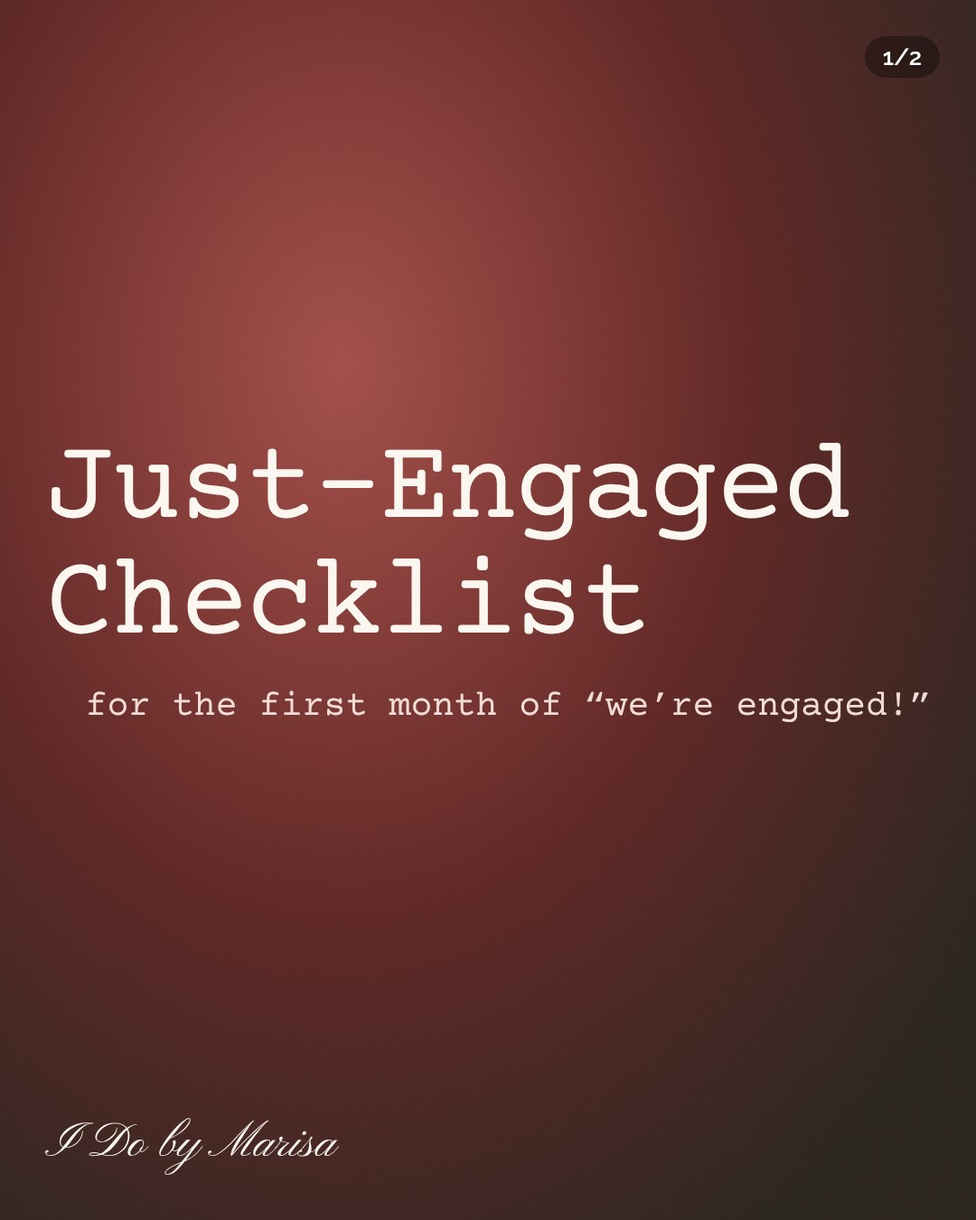
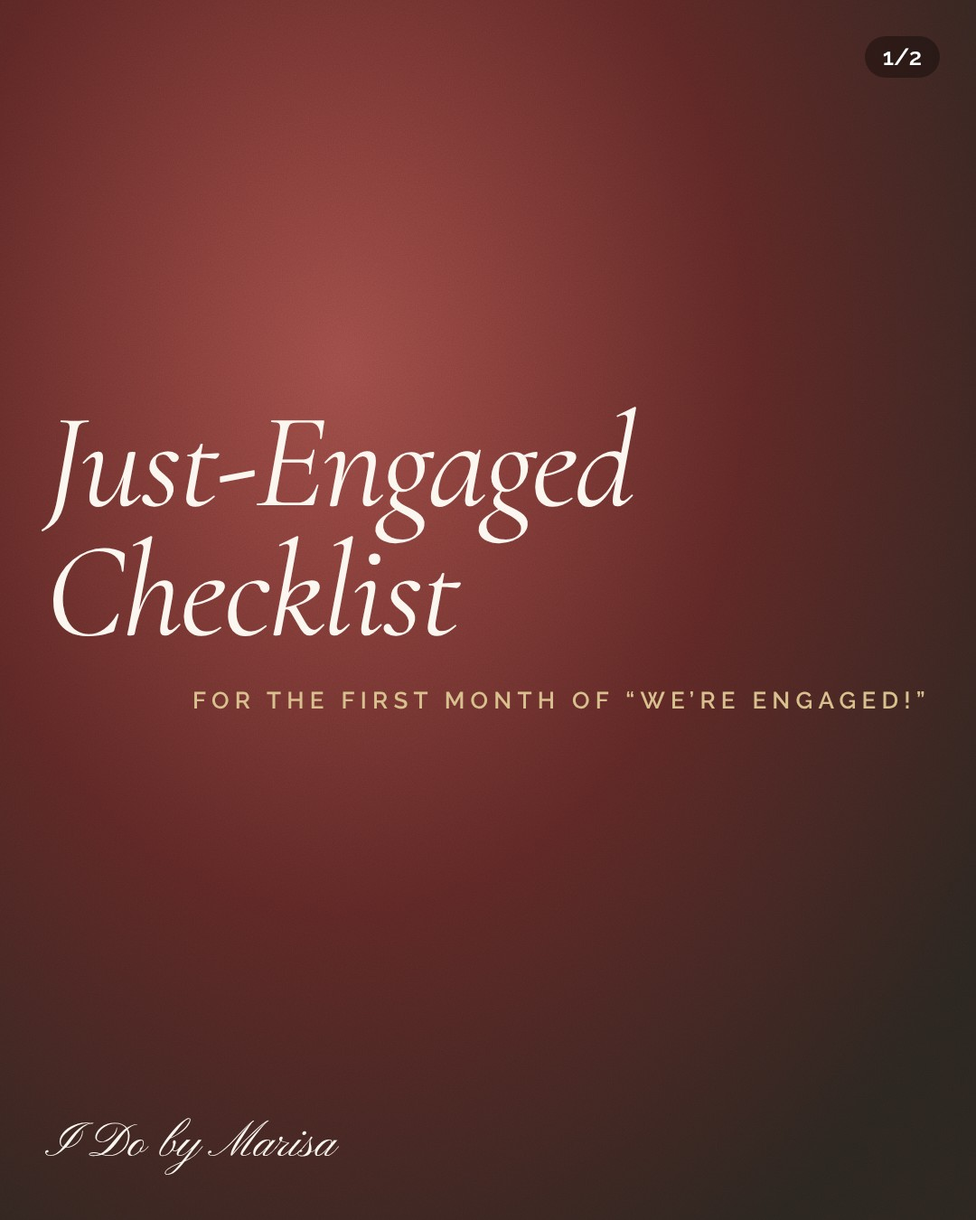
I Do: pull mantras, 3-things, Weddingland and checklists back to brand fonts/colors
Claude-Session: https://claude.ai/code/session_01CeoovJ21APbX2P2SCMoWFW

Changed region(s): [[0.0306, 0.3422, 0.8861, 0.5289], [0.1833, 0.56, 0.9472, 0.5911], [0.0917, 0.56, 0.1528, 0.5911]]

diff --git a/ido_cool/mp2/mp2.html b/ido_cool/mp2/mp2.html
@@ -1,25 +1,25 @@
-<!doctype html><html><head><meta charset="utf-8"><link href="https://fonts.googleapis.com/css2?family=Patrick+Hand+SC&family=Montserrat:ital,wght@0,400;0,500;0,600;0,700;1,300&family=Cormorant+Garamond:wght@400;500;600&family=Pinyon+Script&family=Raleway:wght@600&display=swap" rel="stylesheet"><style>*{box-sizing:border-box}body{margin:0;background:#777}p{margin:0}
+<!doctype html><html><head><meta charset="utf-8"><link href="https://fonts.googleapis.com/css2?family=Patrick+Hand+SC&family=Cormorant+Garamond:ital,wght@0,400;0,500;0,600;1,400&family=Pinyon+Script&family=Raleway:wght@400;500;600;700&display=swap" rel="stylesheet"><style>*{box-sizing:border-box}body{margin:0;background:#777}p{margin:0}
 .s{width:1080px;height:1350px;position:relative;overflow:hidden;margin-bottom:10px}
 .grain{position:absolute;inset:0;mix-blend-mode:overlay;opacity:.5;pointer-events:none}
 .mark{position:absolute;right:50px;bottom:44px;font:400 50px 'Pinyon Script';color:#FBF7F0;opacity:.9}
 .n{position:absolute;right:40px;top:40px;background:rgba(0,0,0,.3);color:#fff;font:600 24px 'Raleway';padding:8px 18px;border-radius:999px}
-.mantra{position:absolute;left:70px;right:70px;top:0;bottom:0;display:flex;align-items:center;justify-content:center;text-align:center;font:400 108px/1.22 'Patrick Hand SC';color:#FBF7F0;letter-spacing:.03em;text-shadow:0 2px 14px rgba(0,0,0,.2)}
+.mantra{position:absolute;left:70px;right:70px;top:0;bottom:0;display:flex;align-items:center;justify-content:center;text-align:center;font:italic 400 118px/1.08 'Cormorant Garamond';color:#FBF7F0;letter-spacing:-.01em;text-shadow:0 2px 14px rgba(0,0,0,.2)}
 .mantra.dk{color:#2A241F;text-shadow:none}
-.ret{background:radial-gradient(ellipse at 50% 35%,#c99a78,#7a4a36 55%,#2c1d16 95%);color:#FBF7F0}
-.ret .h{position:absolute;left:60px;right:60px;top:540px;text-align:center;font:600 86px/1.05 'Montserrat';letter-spacing:-.03em;color:#FBF7F0;text-shadow:0 3px 20px rgba(0,0,0,.35)}
-.ret .p{position:absolute;left:110px;right:110px;top:760px;text-align:center;font:400 40px/1.35 'Montserrat';color:#F1DCD6}
-.wl{background:#3a2522;color:#FBF7F0}
+.ret{background:radial-gradient(ellipse at 50% 35%,#B08D57,#5a4a3e 55%,#2A241F 95%);color:#FBF7F0}
+.ret .h{position:absolute;left:60px;right:60px;top:520px;text-align:center;font:italic 400 108px/1 'Cormorant Garamond';letter-spacing:-.02em;color:#FBF7F0;text-shadow:0 3px 20px rgba(0,0,0,.35)}
+.ret .p{position:absolute;left:110px;right:110px;top:760px;text-align:center;font:400 40px/1.35 'Raleway';color:#F1DCD6}
+.wl{background:#2A241F;color:#FBF7F0}
 .wl .pill{position:absolute;left:50%;top:60px;transform:translateX(-50%);border:2px solid #FBF7F0;border-radius:50%;padding:16px 70px;font:600 26px 'Cormorant Garamond';letter-spacing:.12em}
 .wl .a{position:absolute;left:60px;top:200px;font:500 112px/1 'Cormorant Garamond';letter-spacing:-.03em}
 .wl .b{position:absolute;left:40px;top:330px;font:400 190px/1 'Pinyon Script';color:#D9C08F}
 .wl .box{position:absolute;left:70px;right:60px;top:640px;bottom:140px;border-left:2px solid #FBF7F0;border-top:2px solid #FBF7F0;padding:40px 40px}
 .wl .box p{margin:0;font:400 68px/1.02 'Cormorant Garamond';width:560px}
-.wl .ph{position:absolute;right:30px;bottom:30px;width:420px;height:420px;border-radius:50%;background:repeating-linear-gradient(120deg,#5a3c37 0 24px,#4a302c 24px 48px);display:flex;align-items:center;justify-content:center;font:600 20px 'Raleway';letter-spacing:.2em;color:#c9a7a0;text-align:center}
-.it{background:#3a2522;color:#FBF7F0}
+.wl .ph{position:absolute;right:30px;bottom:30px;width:420px;height:420px;border-radius:50%;background:repeating-linear-gradient(120deg,#4a3f36 0 24px,#3a322b 24px 48px);display:flex;align-items:center;justify-content:center;font:600 20px 'Raleway';letter-spacing:.2em;color:#c9a7a0;text-align:center}
+.it{background:#2A241F;color:#FBF7F0}
 .it .img{position:absolute;left:0;top:0;width:500px;height:760px;border-radius:0 0 30px 0;background:repeating-linear-gradient(120deg,#e9dfd2 0 30px,#e2d6c7 30px 60px);display:flex;align-items:center;justify-content:center;font:600 22px 'Raleway';letter-spacing:.2em;color:#9a8a7a;text-align:center}
-.it .tag{position:absolute;left:20px;top:40px;writing-mode:vertical-rl;transform:rotate(180deg);font:700 44px 'Montserrat';color:#fff;letter-spacing:.06em}
-.it .num{position:absolute;left:540px;top:40px;font:italic 300 100px 'Montserrat'}
-.it .hl{position:absolute;left:540px;right:40px;top:190px;font:500 64px/1.12 'Montserrat';text-transform:uppercase}
-.it .card{position:absolute;left:540px;right:30px;top:470px;height:290px;background:#efe6d6;color:#2A241F;border-radius:30px;padding:28px;font:400 30px/1.35 'Montserrat'}
-.it .lesson{position:absolute;left:50px;right:50px;top:820px;font:400 38px/1.42 'Montserrat'}
-.it .src{position:absolute;left:50px;bottom:50px;font:400 24px 'Montserrat';opacity:.75}</style></head><body><section class="s" id="mantra1" style="background:radial-gradient(ellipse at 50% 70%,#9fb4c8,#3f5d7a 55%,#1f2f42)"><div class="n">1/6</div><svg class="grain" width="1080" height="1350"><filter id="n"><feTurbulence type="fractalNoise" baseFrequency=".8" numOctaves="2" stitchTiles="stitch"/><feColorMatrix values="0 0 0 0 .5 0 0 0 0 .5 0 0 0 0 .5 0 0 0 .55 0"/></filter><rect width="100%" height="100%" filter="url(#n)"/></svg><p class="mantra">MORE MEANING IT.<br>LESS PERFORMING.</p><div class="mark">I Do by Marisa</div></section><section class="s" id="mantra2" style="background:radial-gradient(ellipse at 40% 30%,#F1DCD6,#c98f86 60%,#7E2E2C)"><div class="n">2/6</div><svg class="grain" width="1080" height="1350"><filter id="n"><feTurbulence type="fractalNoise" baseFrequency=".8" numOctaves="2" stitchTiles="stitch"/><feColorMatrix values="0 0 0 0 .5 0 0 0 0 .5 0 0 0 0 .5 0 0 0 .55 0"/></filter><rect width="100%" height="100%" filter="url(#n)"/></svg><p class="mantra">SAY IT LIKE<br>YOU’D TEXT IT.</p><div class="mark">I Do by Marisa</div></section><section class="s" id="mantra3" style="background:radial-gradient(ellipse at 60% 40%,#e8d8b8,#B08D57 60%,#5a4428)"><div class="n">3/6</div><svg class="grain" width="1080" height="1350"><filter id="n"><feTurbulence type="fractalNoise" baseFrequency=".8" numOctaves="2" stitchTiles="stitch"/><feColorMatrix values="0 0 0 0 .5 0 0 0 0 .5 0 0 0 0 .5 0 0 0 .55 0"/></filter><rect width="100%" height="100%" filter="url(#n)"/></svg><p class="mantra">SHORT IS<br>NOT SMALL.</p><div class="mark">I Do by Marisa</div></section><section class="s" id="mantra4" style="background:radial-gradient(ellipse at 50% 50%,#c4cdb0,#6f7d58 60%,#2f3826)"><div class="n">4/6</div><svg class="grain" width="1080" height="1350"><filter id="n"><feTurbulence type="fractalNoise" baseFrequency=".8" numOctaves="2" stitchTiles="stitch"/><feColorMatrix values="0 0 0 0 .5 0 0 0 0 .5 0 0 0 0 .5 0 0 0 .55 0"/></filter><rect width="100%" height="100%" filter="url(#n)"/></svg><p class="mantra">YOUR STORY<br>OVER A TEMPLATE.</p><div class="mark">I Do by Marisa</div></section><section class="s" id="mantra5" style="background:radial-gradient(ellipse at 30% 40%,#d9b8c8,#8a5a72 60%,#3a2230)"><div class="n">5/6</div><svg class="grain" width="1080" height="1350"><filter id="n"><feTurbulence type="fractalNoise" baseFrequency=".8" numOctaves="2" stitchTiles="stitch"/><feColorMatrix values="0 0 0 0 .5 0 0 0 0 .5 0 0 0 0 .5 0 0 0 .55 0"/></filter><rect width="100%" height="100%" filter="url(#n)"/></svg><p class="mantra">BREATHE.<br>THEN SAY I DO.</p><div class="mark">I Do by Marisa</div></section><section class="s" id="mantra6" style="background:radial-gradient(ellipse at 50% 40%,#FBF7F0,#e7d6c4 70%,#cdb49a)"><div class="n">6/6</div><svg class="grain" width="1080" height="1350"><filter id="n"><feTurbulence type="fractalNoise" baseFrequency=".8" numOctaves="2" stitchTiles="stitch"/><feColorMatrix values="0 0 0 0 .5 0 0 0 0 .5 0 0 0 0 .5 0 0 0 .55 0"/></filter><rect width="100%" height="100%" filter="url(#n)"/></svg><p class="mantra dk">IT DOESN’T HAVE<br>TO BE PERFECT.<br>IT HAS TO BE TRUE.</p><div class="mark" style=color:#2A241F>I Do by Marisa</div></section><section class="s ret" id="three1"><div class="n">1/4</div><svg class="grain" width="1080" height="1350"><filter id="n"><feTurbulence type="fractalNoise" baseFrequency=".8" numOctaves="2" stitchTiles="stitch"/><feColorMatrix values="0 0 0 0 .5 0 0 0 0 .5 0 0 0 0 .5 0 0 0 .55 0"/></filter><rect width="100%" height="100%" filter="url(#n)"/></svg><p class="h">the 3 things<br>every ceremony needs</p><p class="p">swipe →</p><div class="mark">I Do by Marisa</div></section><section class="s ret" id="three2"><div class="n">2/4</div><svg class="grain" width="1080" height="1350"><filter id="n"><feTurbulence type="fractalNoise" baseFrequency=".8" numOctaves="2" stitchTiles="stitch"/><feColorMatrix values="0 0 0 0 .5 0 0 0 0 .5 0 0 0 0 .5 0 0 0 .55 0"/></filter><rect width="100%" height="100%" filter="url(#n)"/></svg><p class="h">1. a real story</p><p class="p">how you met, the tuesday, the inside joke. not a template with your names swapped in.</p><div class="mark">I Do by Marisa</div></section><section class="s ret" id="three3"><div class="n">3/4</div><svg class="grain" width="1080" height="1350"><filter id="n"><feTurbulence type="fractalNoise" baseFrequency=".8" numOctaves="2" stitchTiles="stitch"/><feColorMatrix values="0 0 0 0 .5 0 0 0 0 .5 0 0 0 0 .5 0 0 0 .55 0"/></filter><rect width="100%" height="100%" filter="url(#n)"/></svg><p class="h">2. a moment<br>to breathe</p><p class="p">one pause before the vows. it feels long. it isn’t. everyone remembers it.</p><div class="mark">I Do by Marisa</div></section><section class="s ret" id="three4"><div class="n">4/4</div><svg class="grain" width="1080" height="1350"><filter id="n"><feTurbulence type="fractalNoise" baseFrequency=".8" numOctaves="2" stitchTiles="stitch"/><feColorMatrix values="0 0 0 0 .5 0 0 0 0 .5 0 0 0 0 .5 0 0 0 .55 0"/></filter><rect width="100%" height="100%" filter="url(#n)"/></svg><p class="h">3. someone who<br>knows you</p><p class="p">me, or your best friend with a script i wrote and the coaching to deliver it.</p><div class="mark">I Do by Marisa</div></section><section class="s wl" id="wl1"><svg class="grain" width="1080" height="1350"><filter id="n"><feTurbulence type="fractalNoise" baseFrequency=".8" numOctaves="2" stitchTiles="stitch"/><feColorMatrix values="0 0 0 0 .5 0 0 0 0 .5 0 0 0 0 .5 0 0 0 .55 0"/></filter><rect width="100%" height="100%" filter="url(#n)"/></svg><div class="pill">I DO BY MARISA</div><p class="a">What’s happening in</p><p class="b">Weddingland</p><div class="box"><p>what couples are talking about this week and why you should care</p></div><div class="ph">YOUR PHOTO<br>OR A COLLAGE<br>OF YOUR OWN SHOTS</div></section><section class="s it" id="wl2"><svg class="grain" width="1080" height="1350"><filter id="n"><feTurbulence type="fractalNoise" baseFrequency=".8" numOctaves="2" stitchTiles="stitch"/><feColorMatrix values="0 0 0 0 .5 0 0 0 0 .5 0 0 0 0 .5 0 0 0 .55 0"/></filter><rect width="100%" height="100%" filter="url(#n)"/></svg><div class="img">YOUR PHOTO</div><div class="tag">TRENDS</div><div class="num">01</div><div class="hl">[HEADLINE OF<br>THE WEEK]</div><div class="card">[2–3 sentences on what happened, with the real numbers from a real source.]</div><p class="lesson"><b>The lesson:</b> [what this means for your ceremony, in one or two plain sentences. This is where your officiant brain shines.]</p><p class="src">Source: [publication]</p><div class="mark" style="font-size:40px">I Do by Marisa</div></section></body></html>
+.it .tag{position:absolute;left:20px;top:40px;writing-mode:vertical-rl;transform:rotate(180deg);font:700 44px 'Raleway';color:#fff;letter-spacing:.06em}
+.it .num{position:absolute;left:540px;top:40px;font:italic 400 110px 'Cormorant Garamond'}
+.it .hl{position:absolute;left:540px;right:40px;top:190px;font:500 64px/1.12 'Raleway';text-transform:uppercase}
+.it .card{position:absolute;left:540px;right:30px;top:470px;height:290px;background:#FBF7F0;color:#2A241F;border-radius:30px;padding:28px;font:400 30px/1.35 'Raleway'}
+.it .lesson{position:absolute;left:50px;right:50px;top:820px;font:400 38px/1.42 'Raleway'}
+.it .src{position:absolute;left:50px;bottom:50px;font:400 24px 'Raleway';opacity:.75}</style></head><body><section class="s" id="mantra1" style="background:radial-gradient(ellipse at 50% 35%,#9a4a45,#7E2E2C 55%,#3a1716)"><div class="n">1/6</div><svg class="grain" width="1080" height="1350"><filter id="n"><feTurbulence type="fractalNoise" baseFrequency=".8" numOctaves="2" stitchTiles="stitch"/><feColorMatrix values="0 0 0 0 .5 0 0 0 0 .5 0 0 0 0 .5 0 0 0 .55 0"/></filter><rect width="100%" height="100%" filter="url(#n)"/></svg><p class="mantra">more meaning it.<br>less performing.</p><div class="mark">I Do by Marisa</div></section><section class="s" id="mantra2" style="background:radial-gradient(ellipse at 40% 30%,#FBF7F0,#F1DCD6 60%,#d9b3aa)"><div class="n">2/6</div><svg class="grain" width="1080" height="1350"><filter id="n"><feTurbulence type="fractalNoise" baseFrequency=".8" numOctaves="2" stitchTiles="stitch"/><feColorMatrix values="0 0 0 0 .5 0 0 0 0 .5 0 0 0 0 .5 0 0 0 .55 0"/></filter><rect width="100%" height="100%" filter="url(#n)"/></svg><p class="mantra dk">say it like<br>you’d text it.</p><div class="mark" style=color:#2A241F>I Do by Marisa</div></section><section class="s" id="mantra3" style="background:radial-gradient(ellipse at 60% 40%,#5a4a3e,#2A241F 70%)"><div class="n">3/6</div><svg class="grain" width="1080" height="1350"><filter id="n"><feTurbulence type="fractalNoise" baseFrequency=".8" numOctaves="2" stitchTiles="stitch"/><feColorMatrix values="0 0 0 0 .5 0 0 0 0 .5 0 0 0 0 .5 0 0 0 .55 0"/></filter><rect width="100%" height="100%" filter="url(#n)"/></svg><p class="mantra">short is<br>not small.</p><div class="mark">I Do by Marisa</div></section><section class="s" id="mantra4" style="background:radial-gradient(ellipse at 50% 40%,#e8d8b8,#D9C08F 55%,#B08D57)"><div class="n">4/6</div><svg class="grain" width="1080" height="1350"><filter id="n"><feTurbulence type="fractalNoise" baseFrequency=".8" numOctaves="2" stitchTiles="stitch"/><feColorMatrix values="0 0 0 0 .5 0 0 0 0 .5 0 0 0 0 .5 0 0 0 .55 0"/></filter><rect width="100%" height="100%" filter="url(#n)"/></svg><p class="mantra dk">your story<br>over a template.</p><div class="mark" style=color:#2A241F>I Do by Marisa</div></section><section class="s" id="mantra5" style="background:radial-gradient(ellipse at 30% 40%,#F1DCD6,#c98f86 60%,#7E2E2C)"><div class="n">5/6</div><svg class="grain" width="1080" height="1350"><filter id="n"><feTurbulence type="fractalNoise" baseFrequency=".8" numOctaves="2" stitchTiles="stitch"/><feColorMatrix values="0 0 0 0 .5 0 0 0 0 .5 0 0 0 0 .5 0 0 0 .55 0"/></filter><rect width="100%" height="100%" filter="url(#n)"/></svg><p class="mantra">breathe.<br>then say i do.</p><div class="mark">I Do by Marisa</div></section><section class="s" id="mantra6" style="background:radial-gradient(ellipse at 50% 40%,#FBF7F0,#efe4d4 75%,#e2d2bd)"><div class="n">6/6</div><svg class="grain" width="1080" height="1350"><filter id="n"><feTurbulence type="fractalNoise" baseFrequency=".8" numOctaves="2" stitchTiles="stitch"/><feColorMatrix values="0 0 0 0 .5 0 0 0 0 .5 0 0 0 0 .5 0 0 0 .55 0"/></filter><rect width="100%" height="100%" filter="url(#n)"/></svg><p class="mantra dk">it doesn’t have<br>to be perfect.<br>it has to be true.</p><div class="mark" style=color:#2A241F>I Do by Marisa</div></section><section class="s ret" id="three1"><div class="n">1/4</div><svg class="grain" width="1080" height="1350"><filter id="n"><feTurbulence type="fractalNoise" baseFrequency=".8" numOctaves="2" stitchTiles="stitch"/><feColorMatrix values="0 0 0 0 .5 0 0 0 0 .5 0 0 0 0 .5 0 0 0 .55 0"/></filter><rect width="100%" height="100%" filter="url(#n)"/></svg><p class="h">the 3 things<br>every ceremony needs</p><p class="p">swipe →</p><div class="mark">I Do by Marisa</div></section><section class="s ret" id="three2"><div class="n">2/4</div><svg class="grain" width="1080" height="1350"><filter id="n"><feTurbulence type="fractalNoise" baseFrequency=".8" numOctaves="2" stitchTiles="stitch"/><feColorMatrix values="0 0 0 0 .5 0 0 0 0 .5 0 0 0 0 .5 0 0 0 .55 0"/></filter><rect width="100%" height="100%" filter="url(#n)"/></svg><p class="h">1. a real story</p><p class="p">how you met, the tuesday, the inside joke. not a template with your names swapped in.</p><div class="mark">I Do by Marisa</div></section><section class="s ret" id="three3"><div class="n">3/4</div><svg class="grain" width="1080" height="1350"><filter id="n"><feTurbulence type="fractalNoise" baseFrequency=".8" numOctaves="2" stitchTiles="stitch"/><feColorMatrix values="0 0 0 0 .5 0 0 0 0 .5 0 0 0 0 .5 0 0 0 .55 0"/></filter><rect width="100%" height="100%" filter="url(#n)"/></svg><p class="h">2. a moment<br>to breathe</p><p class="p">one pause before the vows. it feels long. it isn’t. everyone remembers it.</p><div class="mark">I Do by Marisa</div></section><section class="s ret" id="three4"><div class="n">4/4</div><svg class="grain" width="1080" height="1350"><filter id="n"><feTurbulence type="fractalNoise" baseFrequency=".8" numOctaves="2" stitchTiles="stitch"/><feColorMatrix values="0 0 0 0 .5 0 0 0 0 .5 0 0 0 0 .5 0 0 0 .55 0"/></filter><rect width="100%" height="100%" filter="url(#n)"/></svg><p class="h">3. someone who<br>knows you</p><p class="p">me, or your best friend with a script i wrote and the coaching to deliver it.</p><div class="mark">I Do by Marisa</div></section><section class="s wl" id="wl1"><svg class="grain" width="1080" height="1350"><filter id="n"><feTurbulence type="fractalNoise" baseFrequency=".8" numOctaves="2" stitchTiles="stitch"/><feColorMatrix values="0 0 0 0 .5 0 0 0 0 .5 0 0 0 0 .5 0 0 0 .55 0"/></filter><rect width="100%" height="100%" filter="url(#n)"/></svg><div class="pill">I DO BY MARISA</div><p class="a">What’s happening in</p><p class="b">Weddingland</p><div class="box"><p>what couples are talking about this week and why you should care</p></div><div class="ph">YOUR PHOTO<br>OR A COLLAGE<br>OF YOUR OWN SHOTS</div></section><section class="s it" id="wl2"><svg class="grain" width="1080" height="1350"><filter id="n"><feTurbulence type="fractalNoise" baseFrequency=".8" numOctaves="2" stitchTiles="stitch"/><feColorMatrix values="0 0 0 0 .5 0 0 0 0 .5 0 0 0 0 .5 0 0 0 .55 0"/></filter><rect width="100%" height="100%" filter="url(#n)"/></svg><div class="img">YOUR PHOTO</div><div class="tag">TRENDS</div><div class="num">01</div><div class="hl">[HEADLINE OF<br>THE WEEK]</div><div class="card">[2–3 sentences on what happened, with the real numbers from a real source.]</div><p class="lesson"><b>The lesson:</b> [what this means for your ceremony, in one or two plain sentences. This is where your officiant brain shines.]</p><p class="src">Source: [publication]</p><div class="mark" style="font-size:40px">I Do by Marisa</div></section></body></html>

diff --git a/ido_cool/checklist/cl.html b/ido_cool/checklist/cl.html
@@ -1,14 +1,14 @@
-<!doctype html><html><head><meta charset="utf-8"><link href="https://fonts.googleapis.com/css2?family=Courier+Prime&family=Cormorant+Garamond&family=Pinyon+Script&family=Raleway:wght@600;700&display=swap" rel="stylesheet"><style>*{box-sizing:border-box}body{margin:0;background:#777}
+<!doctype html><html><head><meta charset="utf-8"><link href="https://fonts.googleapis.com/css2?family=Cormorant+Garamond:ital@0;1&family=Pinyon+Script&family=Raleway:wght@600;700&display=swap" rel="stylesheet"><style>*{box-sizing:border-box}body{margin:0;background:#777}
 .s{width:1080px;height:1350px;position:relative;overflow:hidden;margin-bottom:10px;background:radial-gradient(ellipse at 35% 30%,#9a4a45,#5a2624 45%,#2A241F 85%)}
 .s.b{background:radial-gradient(ellipse at 65% 40%,#c9a7a0,#7E2E2C 50%,#2A241F 90%)}
 .grain{position:absolute;inset:0;mix-blend-mode:overlay;opacity:.6}
 .blur{position:absolute;inset:0;backdrop-filter:blur(2px)}
-.title{margin:0;position:absolute;left:50px;right:40px;top:480px;font:400 128px/1 'Courier Prime',monospace;color:#FBF7F0;letter-spacing:-.02em}
-.tsub{margin:0;position:absolute;right:50px;top:760px;font:400 40px 'Courier Prime',monospace;color:#F1DCD6}
+.title{margin:0;position:absolute;left:50px;right:40px;top:440px;font:italic 400 150px/.95 'Cormorant Garamond';color:#FBF7F0;letter-spacing:-.02em}
+.tsub{margin:0;position:absolute;right:50px;top:760px;font:600 26px 'Raleway';letter-spacing:.24em;text-transform:uppercase;color:#D9C08F}
 .mark{position:absolute;left:50px;bottom:50px;font:400 54px 'Pinyon Script';color:#FBF7F0}
 .n{position:absolute;right:40px;top:40px;background:rgba(0,0,0,.35);color:#fff;font:600 26px 'Raleway';padding:8px 20px;border-radius:999px}
 .card{position:absolute;left:36px;right:36px;top:190px;background:rgba(251,247,240,.96);padding:50px 44px 40px}
 .card h2{margin:0 auto 30px;width:fit-content;font:400 116px/1 'Cormorant Garamond';letter-spacing:.04em;color:#7E2E2C;border-bottom:3px solid #7E2E2C;padding:0 20px 8px}
-.row{display:flex;align-items:center;gap:22px;margin:0 0 30px;font:400 37px/1.2 'Courier Prime',monospace;color:#2A241F}
+.row{display:flex;align-items:center;gap:22px;margin:0 0 30px;font:400 42px/1.15 'Cormorant Garamond';color:#2A241F}
 .bx{flex:none;width:46px;height:46px;border:2.5px solid #2A241F;display:grid;place-items:center;font:700 40px 'Raleway';line-height:1}
-.handle{position:absolute;left:0;right:0;bottom:70px;text-align:center;font:400 34px 'Courier Prime',monospace;color:#F1DCD6}</style></head><body><section class="s" id="engaged1"><div class="n">1/2</div><svg class="grain" width="1080" height="1350"><filter id="n"><feTurbulence type="fractalNoise" baseFrequency=".8" numOctaves="2" stitchTiles="stitch"/><feColorMatrix values="0 0 0 0 .5 0 0 0 0 .5 0 0 0 0 .5 0 0 0 .6 0"/></filter><rect width="100%" height="100%" filter="url(#n)"/></svg><p class="title">Just-Engaged<br>Checklist</p><p class="tsub">for the first month of “we’re engaged!”</p><div class="mark">I Do by Marisa</div></section><section class="s b" id="engaged2"><div class="n">2/2</div><svg class="grain" width="1080" height="1350"><filter id="n"><feTurbulence type="fractalNoise" baseFrequency=".8" numOctaves="2" stitchTiles="stitch"/><feColorMatrix values="0 0 0 0 .5 0 0 0 0 .5 0 0 0 0 .5 0 0 0 .6 0"/></filter><rect width="100%" height="100%" filter="url(#n)"/></svg><div class="card"><h2>CHECKLIST</h2><div class="row"><span class="bx">✓</span>tell your people</div><div class="row"><span class="bx">✓</span>add the ring to your insurance</div><div class="row"><span class="bx">✓</span>set a rough budget</div><div class="row"><span class="bx">✓</span>pick a season, not a date</div><div class="row"><span class="bx">✓</span>decide who’s marrying you</div><div class="row"><span class="bx">✓</span>book your officiant 3–6 months out</div><div class="row"><span class="bx">✓</span>take one week off from planning</div><div class="row"><span class="bx"></span>write about a tuesday (later)</div></div><p class="handle">@idobymarisa</p><div class="mark" style="left:auto;right:50px;bottom:50px;font-size:44px">I Do by Marisa</div></section><section class="s" id="officiant1"><div class="n">1/2</div><svg class="grain" width="1080" height="1350"><filter id="n"><feTurbulence type="fractalNoise" baseFrequency=".8" numOctaves="2" stitchTiles="stitch"/><feColorMatrix values="0 0 0 0 .5 0 0 0 0 .5 0 0 0 0 .5 0 0 0 .6 0"/></filter><rect width="100%" height="100%" filter="url(#n)"/></svg><p class="title">Officiant<br>Checklist</p><p class="tsub">for the friend who said yes</p><div class="mark">I Do by Marisa</div></section><section class="s b" id="officiant2"><div class="n">2/2</div><svg class="grain" width="1080" height="1350"><filter id="n"><feTurbulence type="fractalNoise" baseFrequency=".8" numOctaves="2" stitchTiles="stitch"/><feColorMatrix values="0 0 0 0 .5 0 0 0 0 .5 0 0 0 0 .5 0 0 0 .6 0"/></filter><rect width="100%" height="100%" filter="url(#n)"/></svg><div class="card"><h2>CHECKLIST</h2><div class="row"><span class="bx">✓</span>get ordained (check your state’s rules)</div><div class="row"><span class="bx">✓</span>ask the county clerk about the license</div><div class="row"><span class="bx">✓</span>get a script written from their story</div><div class="row"><span class="bx">✓</span>print it big, in a binder</div><div class="row"><span class="bx">✓</span>practice out loud. twice.</div><div class="row"><span class="bx">✓</span>learn how to say every name</div><div class="row"><span class="bx">✓</span>step aside for the kiss</div><div class="row"><span class="bx"></span>sign + return the license on time</div></div><p class="handle">@idobymarisa</p><div class="mark" style="left:auto;right:50px;bottom:50px;font-size:44px">I Do by Marisa</div></section><section class="s" id="vows1"><div class="n">1/2</div><svg class="grain" width="1080" height="1350"><filter id="n"><feTurbulence type="fractalNoise" baseFrequency=".8" numOctaves="2" stitchTiles="stitch"/><feColorMatrix values="0 0 0 0 .5 0 0 0 0 .5 0 0 0 0 .5 0 0 0 .6 0"/></filter><rect width="100%" height="100%" filter="url(#n)"/></svg><p class="title">Vow<br>Checklist</p><p class="tsub">for writing yours this month</p><div class="mark">I Do by Marisa</div></section><section class="s b" id="vows2"><div class="n">2/2</div><svg class="grain" width="1080" height="1350"><filter id="n"><feTurbulence type="fractalNoise" baseFrequency=".8" numOctaves="2" stitchTiles="stitch"/><feColorMatrix values="0 0 0 0 .5 0 0 0 0 .5 0 0 0 0 .5 0 0 0 .6 0"/></filter><rect width="100%" height="100%" filter="url(#n)"/></svg><div class="card"><h2>CHECKLIST</h2><div class="row"><span class="bx">✓</span>agree on a length (1–2 minutes)</div><div class="row"><span class="bx">✓</span>agree on a tone together</div><div class="row"><span class="bx">✓</span>write about a random tuesday</div><div class="row"><span class="bx">✓</span>one promise that’s funny</div><div class="row"><span class="bx">✓</span>one promise that’s serious</div><div class="row"><span class="bx">✓</span>read it out loud + time it</div><div class="row"><span class="bx">✓</span>print it. never your phone.</div><div class="row"><span class="bx"></span>cry (optional)</div></div><p class="handle">@idobymarisa</p><div class="mark" style="left:auto;right:50px;bottom:50px;font-size:44px">I Do by Marisa</div></section></body></html>
+.handle{position:absolute;left:0;right:0;bottom:70px;text-align:center;font:600 24px 'Raleway';letter-spacing:.2em;color:#F1DCD6}</style></head><body><section class="s" id="engaged1"><div class="n">1/2</div><svg class="grain" width="1080" height="1350"><filter id="n"><feTurbulence type="fractalNoise" baseFrequency=".8" numOctaves="2" stitchTiles="stitch"/><feColorMatrix values="0 0 0 0 .5 0 0 0 0 .5 0 0 0 0 .5 0 0 0 .6 0"/></filter><rect width="100%" height="100%" filter="url(#n)"/></svg><p class="title">Just-Engaged<br>Checklist</p><p class="tsub">for the first month of “we’re engaged!”</p><div class="mark">I Do by Marisa</div></section><section class="s b" id="engaged2"><div class="n">2/2</div><svg class="grain" width="1080" height="1350"><filter id="n"><feTurbulence type="fractalNoise" baseFrequency=".8" numOctaves="2" stitchTiles="stitch"/><feColorMatrix values="0 0 0 0 .5 0 0 0 0 .5 0 0 0 0 .5 0 0 0 .6 0"/></filter><rect width="100%" height="100%" filter="url(#n)"/></svg><div class="card"><h2>CHECKLIST</h2><div class="row"><span class="bx">✓</span>tell your people</div><div class="row"><span class="bx">✓</span>add the ring to your insurance</div><div class="row"><span class="bx">✓</span>set a rough budget</div><div class="row"><span class="bx">✓</span>pick a season, not a date</div><div class="row"><span class="bx">✓</span>decide who’s marrying you</div><div class="row"><span class="bx">✓</span>book your officiant 3–6 months out</div><div class="row"><span class="bx">✓</span>take one week off from planning</div><div class="row"><span class="bx"></span>write about a tuesday (later)</div></div><p class="handle">@idobymarisa</p><div class="mark" style="left:auto;right:50px;bottom:50px;font-size:44px">I Do by Marisa</div></section><section class="s" id="officiant1"><div class="n">1/2</div><svg class="grain" width="1080" height="1350"><filter id="n"><feTurbulence type="fractalNoise" baseFrequency=".8" numOctaves="2" stitchTiles="stitch"/><feColorMatrix values="0 0 0 0 .5 0 0 0 0 .5 0 0 0 0 .5 0 0 0 .6 0"/></filter><rect width="100%" height="100%" filter="url(#n)"/></svg><p class="title">Officiant<br>Checklist</p><p class="tsub">for the friend who said yes</p><div class="mark">I Do by Marisa</div></section><section class="s b" id="officiant2"><div class="n">2/2</div><svg class="grain" width="1080" height="1350"><filter id="n"><feTurbulence type="fractalNoise" baseFrequency=".8" numOctaves="2" stitchTiles="stitch"/><feColorMatrix values="0 0 0 0 .5 0 0 0 0 .5 0 0 0 0 .5 0 0 0 .6 0"/></filter><rect width="100%" height="100%" filter="url(#n)"/></svg><div class="card"><h2>CHECKLIST</h2><div class="row"><span class="bx">✓</span>get ordained (check your state’s rules)</div><div class="row"><span class="bx">✓</span>ask the county clerk about the license</div><div class="row"><span class="bx">✓</span>get a script written from their story</div><div class="row"><span class="bx">✓</span>print it big, in a binder</div><div class="row"><span class="bx">✓</span>practice out loud. twice.</div><div class="row"><span class="bx">✓</span>learn how to say every name</div><div class="row"><span class="bx">✓</span>step aside for the kiss</div><div class="row"><span class="bx"></span>sign + return the license on time</div></div><p class="handle">@idobymarisa</p><div class="mark" style="left:auto;right:50px;bottom:50px;font-size:44px">I Do by Marisa</div></section><section class="s" id="vows1"><div class="n">1/2</div><svg class="grain" width="1080" height="1350"><filter id="n"><feTurbulence type="fractalNoise" baseFrequency=".8" numOctaves="2" stitchTiles="stitch"/><feColorMatrix values="0 0 0 0 .5 0 0 0 0 .5 0 0 0 0 .5 0 0 0 .6 0"/></filter><rect width="100%" height="100%" filter="url(#n)"/></svg><p class="title">Vow<br>Checklist</p><p class="tsub">for writing yours this month</p><div class="mark">I Do by Marisa</div></section><section class="s b" id="vows2"><div class="n">2/2</div><svg class="grain" width="1080" height="1350"><filter id="n"><feTurbulence type="fractalNoise" baseFrequency=".8" numOctaves="2" stitchTiles="stitch"/><feColorMatrix values="0 0 0 0 .5 0 0 0 0 .5 0 0 0 0 .5 0 0 0 .6 0"/></filter><rect width="100%" height="100%" filter="url(#n)"/></svg><div class="card"><h2>CHECKLIST</h2><div class="row"><span class="bx">✓</span>agree on a length (1–2 minutes)</div><div class="row"><span class="bx">✓</span>agree on a tone together</div><div class="row"><span class="bx">✓</span>write about a random tuesday</div><div class="row"><span class="bx">✓</span>one promise that’s funny</div><div class="row"><span class="bx">✓</span>one promise that’s serious</div><div class="row"><span class="bx">✓</span>read it out loud + time it</div><div class="row"><span class="bx">✓</span>print it. never your phone.</div><div class="row"><span class="bx"></span>cry (optional)</div></div><p class="handle">@idobymarisa</p><div class="mark" style="left:auto;right:50px;bottom:50px;font-size:44px">I Do by Marisa</div></section></body></html>

diff --git a/ido_cool/mp2/build.py b/ido_cool/mp2/build.py
@@ -7,33 +7,33 @@ CSS = """*{box-sizing:border-box}body{margin:0;background:#777}p{margin:0}
 .grain{position:absolute;inset:0;mix-blend-mode:overlay;opacity:.5;pointer-events:none}
 .mark{position:absolute;right:50px;bottom:44px;font:400 50px 'Pinyon Script';color:#FBF7F0;opacity:.9}
 .n{position:absolute;right:40px;top:40px;background:rgba(0,0,0,.3);color:#fff;font:600 24px 'Raleway';padding:8px 18px;border-radius:999px}
-.mantra{position:absolute;left:70px;right:70px;top:0;bottom:0;display:flex;align-items:center;justify-content:center;text-align:center;font:400 108px/1.22 'Patrick Hand SC';color:#FBF7F0;letter-spacing:.03em;text-shadow:0 2px 14px rgba(0,0,0,.2)}
+.mantra{position:absolute;left:70px;right:70px;top:0;bottom:0;display:flex;align-items:center;justify-content:center;text-align:center;font:italic 400 118px/1.08 'Cormorant Garamond';color:#FBF7F0;letter-spacing:-.01em;text-shadow:0 2px 14px rgba(0,0,0,.2)}
 .mantra.dk{color:#2A241F;text-shadow:none}
-.ret{background:radial-gradient(ellipse at 50% 35%,#c99a78,#7a4a36 55%,#2c1d16 95%);color:#FBF7F0}
-.ret .h{position:absolute;left:60px;right:60px;top:540px;text-align:center;font:600 86px/1.05 'Montserrat';letter-spacing:-.03em;color:#FBF7F0;text-shadow:0 3px 20px rgba(0,0,0,.35)}
-.ret .p{position:absolute;left:110px;right:110px;top:760px;text-align:center;font:400 40px/1.35 'Montserrat';color:#F1DCD6}
-.wl{background:#3a2522;color:#FBF7F0}
+.ret{background:radial-gradient(ellipse at 50% 35%,#B08D57,#5a4a3e 55%,#2A241F 95%);color:#FBF7F0}
+.ret .h{position:absolute;left:60px;right:60px;top:520px;text-align:center;font:italic 400 108px/1 'Cormorant Garamond';letter-spacing:-.02em;color:#FBF7F0;text-shadow:0 3px 20px rgba(0,0,0,.35)}
+.ret .p{position:absolute;left:110px;right:110px;top:760px;text-align:center;font:400 40px/1.35 'Raleway';color:#F1DCD6}
+.wl{background:#2A241F;color:#FBF7F0}
 .wl .pill{position:absolute;left:50%;top:60px;transform:translateX(-50%);border:2px solid #FBF7F0;border-radius:50%;padding:16px 70px;font:600 26px 'Cormorant Garamond';letter-spacing:.12em}
 .wl .a{position:absolute;left:60px;top:200px;font:500 112px/1 'Cormorant Garamond';letter-spacing:-.03em}
 .wl .b{position:absolute;left:40px;top:330px;font:400 190px/1 'Pinyon Script';color:#D9C08F}
 .wl .box{position:absolute;left:70px;right:60px;top:640px;bottom:140px;border-left:2px solid #FBF7F0;border-top:2px solid #FBF7F0;padding:40px 40px}
 .wl .box p{margin:0;font:400 68px/1.02 'Cormorant Garamond';width:560px}
-.wl .ph{position:absolute;right:30px;bottom:30px;width:420px;height:420px;border-radius:50%;background:repeating-linear-gradient(120deg,#5a3c37 0 24px,#4a302c 24px 48px);display:flex;align-items:center;justify-content:center;font:600 20px 'Raleway';letter-spacing:.2em;color:#c9a7a0;text-align:center}
-.it{background:#3a2522;color:#FBF7F0}
+.wl .ph{position:absolute;right:30px;bottom:30px;width:420px;height:420px;border-radius:50%;background:repeating-linear-gradient(120deg,#4a3f36 0 24px,#3a322b 24px 48px);display:flex;align-items:center;justify-content:center;font:600 20px 'Raleway';letter-spacing:.2em;color:#c9a7a0;text-align:center}
+.it{background:#2A241F;color:#FBF7F0}
 .it .img{position:absolute;left:0;top:0;width:500px;height:760px;border-radius:0 0 30px 0;background:repeating-linear-gradient(120deg,#e9dfd2 0 30px,#e2d6c7 30px 60px);display:flex;align-items:center;justify-content:center;font:600 22px 'Raleway';letter-spacing:.2em;color:#9a8a7a;text-align:center}
-.it .tag{position:absolute;left:20px;top:40px;writing-mode:vertical-rl;transform:rotate(180deg);font:700 44px 'Montserrat';color:#fff;letter-spacing:.06em}
-.it .num{position:absolute;left:540px;top:40px;font:italic 300 100px 'Montserrat'}
-.it .hl{position:absolute;left:540px;right:40px;top:190px;font:500 64px/1.12 'Montserrat';text-transform:uppercase}
-.it .card{position:absolute;left:540px;right:30px;top:470px;height:290px;background:#efe6d6;color:#2A241F;border-radius:30px;padding:28px;font:400 30px/1.35 'Montserrat'}
-.it .lesson{position:absolute;left:50px;right:50px;top:820px;font:400 38px/1.42 'Montserrat'}
-.it .src{position:absolute;left:50px;bottom:50px;font:400 24px 'Montserrat';opacity:.75}"""
+.it .tag{position:absolute;left:20px;top:40px;writing-mode:vertical-rl;transform:rotate(180deg);font:700 44px 'Raleway';color:#fff;letter-spacing:.06em}
+.it .num{position:absolute;left:540px;top:40px;font:italic 400 110px 'Cormorant Garamond'}
+.it .hl{position:absolute;left:540px;right:40px;top:190px;font:500 64px/1.12 'Raleway';text-transform:uppercase}
+.it .card{position:absolute;left:540px;right:30px;top:470px;height:290px;background:#FBF7F0;color:#2A241F;border-radius:30px;padding:28px;font:400 30px/1.35 'Raleway'}
+.it .lesson{position:absolute;left:50px;right:50px;top:820px;font:400 38px/1.42 'Raleway'}
+.it .src{position:absolute;left:50px;bottom:50px;font:400 24px 'Raleway';opacity:.75}"""
 S = []
-BG = ['radial-gradient(ellipse at 50% 70%,#9fb4c8,#3f5d7a 55%,#1f2f42)', 'radial-gradient(ellipse at 40% 30%,#F1DCD6,#c98f86 60%,#7E2E2C)',
-      'radial-gradient(ellipse at 60% 40%,#e8d8b8,#B08D57 60%,#5a4428)', 'radial-gradient(ellipse at 50% 50%,#c4cdb0,#6f7d58 60%,#2f3826)',
-      'radial-gradient(ellipse at 30% 40%,#d9b8c8,#8a5a72 60%,#3a2230)', 'radial-gradient(ellipse at 50% 40%,#FBF7F0,#e7d6c4 70%,#cdb49a)']
-M = ['MORE MEANING IT.<br>LESS PERFORMING.', 'SAY IT LIKE<br>YOU’D TEXT IT.', 'SHORT IS<br>NOT SMALL.', 'YOUR STORY<br>OVER A TEMPLATE.', 'BREATHE.<br>THEN SAY I DO.', 'IT DOESN’T HAVE<br>TO BE PERFECT.<br>IT HAS TO BE TRUE.']
+BG = ['radial-gradient(ellipse at 50% 35%,#9a4a45,#7E2E2C 55%,#3a1716)', 'radial-gradient(ellipse at 40% 30%,#FBF7F0,#F1DCD6 60%,#d9b3aa)',
+      'radial-gradient(ellipse at 60% 40%,#5a4a3e,#2A241F 70%)', 'radial-gradient(ellipse at 50% 40%,#e8d8b8,#D9C08F 55%,#B08D57)',
+      'radial-gradient(ellipse at 30% 40%,#F1DCD6,#c98f86 60%,#7E2E2C)', 'radial-gradient(ellipse at 50% 40%,#FBF7F0,#efe4d4 75%,#e2d2bd)']
+M = ['more meaning it.<br>less performing.', 'say it like<br>you’d text it.', 'short is<br>not small.', 'your story<br>over a template.', 'breathe.<br>then say i do.', 'it doesn’t have<br>to be perfect.<br>it has to be true.']
 for i, (b, m) in enumerate(zip(BG, M), 1):
-    dk = ' dk' if i == 6 else ''
+    dk = ' dk' if i in (2, 4, 6) else ''
     S.append(f'<section class="s" id="mantra{i}" style="background:{b}"><div class="n">{i}/6</div>{GRAIN}<p class="mantra{dk}">{m}</p><div class="mark"{" style=color:#2A241F" if dk else ""}>I Do by Marisa</div></section>')
 T = [('the 3 things<br>every ceremony needs', 'swipe →'), ('1. a real story', 'how you met, the tuesday, the inside joke. not a template with your names swapped in.'),
      ('2. a moment<br>to breathe', 'one pause before the vows. it feels long. it isn’t. everyone remembers it.'),
@@ -46,5 +46,5 @@ S.append(f'<section class="s it" id="wl2">{GRAIN}<div class="img">YOUR PHOTO</di
          '<div class="hl">[HEADLINE OF<br>THE WEEK]</div><div class="card">[2–3 sentences on what happened, with the real numbers from a real source.]</div>'
          '<p class="lesson"><b>The lesson:</b> [what this means for your ceremony, in one or two plain sentences. This is where your officiant brain shines.]</p>'
          '<p class="src">Source: [publication]</p><div class="mark" style="font-size:40px">I Do by Marisa</div></section>')
-fonts = '<link href="https://fonts.googleapis.com/css2?family=Patrick+Hand+SC&family=Montserrat:ital,wght@0,400;0,500;0,600;0,700;1,300&family=Cormorant+Garamond:wght@400;500;600&family=Pinyon+Script&family=Raleway:wght@600&display=swap" rel="stylesheet">'
+fonts = '<link href="https://fonts.googleapis.com/css2?family=Patrick+Hand+SC&family=Cormorant+Garamond:ital,wght@0,400;0,500;0,600;1,400&family=Pinyon+Script&family=Raleway:wght@400;500;600;700&display=swap" rel="stylesheet">'
 open(os.path.join(D, 'mp2.html'), 'w').write('<!doctype html><html><head><meta charset="utf-8">' + fonts + '<style>' + CSS + '</style></head><body>' + ''.join(S) + '</body></html>')

diff --git a/ido_cool/checklist/build.py b/ido_cool/checklist/build.py
@@ -7,15 +7,15 @@ CSS = """*{box-sizing:border-box}body{margin:0;background:#777}
 .s.b{background:radial-gradient(ellipse at 65% 40%,#c9a7a0,#7E2E2C 50%,#2A241F 90%)}
 .grain{position:absolute;inset:0;mix-blend-mode:overlay;opacity:.6}
 .blur{position:absolute;inset:0;backdrop-filter:blur(2px)}
-.title{margin:0;position:absolute;left:50px;right:40px;top:480px;font:400 128px/1 'Courier Prime',monospace;color:#FBF7F0;letter-spacing:-.02em}
-.tsub{margin:0;position:absolute;right:50px;top:760px;font:400 40px 'Courier Prime',monospace;color:#F1DCD6}
+.title{margin:0;position:absolute;left:50px;right:40px;top:440px;font:italic 400 150px/.95 'Cormorant Garamond';color:#FBF7F0;letter-spacing:-.02em}
+.tsub{margin:0;position:absolute;right:50px;top:760px;font:600 26px 'Raleway';letter-spacing:.24em;text-transform:uppercase;color:#D9C08F}
 .mark{position:absolute;left:50px;bottom:50px;font:400 54px 'Pinyon Script';color:#FBF7F0}
 .n{position:absolute;right:40px;top:40px;background:rgba(0,0,0,.35);color:#fff;font:600 26px 'Raleway';padding:8px 20px;border-radius:999px}
 .card{position:absolute;left:36px;right:36px;top:190px;background:rgba(251,247,240,.96);padding:50px 44px 40px}
 .card h2{margin:0 auto 30px;width:fit-content;font:400 116px/1 'Cormorant Garamond';letter-spacing:.04em;color:#7E2E2C;border-bottom:3px solid #7E2E2C;padding:0 20px 8px}
-.row{display:flex;align-items:center;gap:22px;margin:0 0 30px;font:400 37px/1.2 'Courier Prime',monospace;color:#2A241F}
+.row{display:flex;align-items:center;gap:22px;margin:0 0 30px;font:400 42px/1.15 'Cormorant Garamond';color:#2A241F}
 .bx{flex:none;width:46px;height:46px;border:2.5px solid #2A241F;display:grid;place-items:center;font:700 40px 'Raleway';line-height:1}
-.handle{position:absolute;left:0;right:0;bottom:70px;text-align:center;font:400 34px 'Courier Prime',monospace;color:#F1DCD6}"""
+.handle{position:absolute;left:0;right:0;bottom:70px;text-align:center;font:600 24px 'Raleway';letter-spacing:.2em;color:#F1DCD6}"""
 LISTS = {
  'engaged': ('Just-Engaged', 'Checklist', 'for the first month of “we’re engaged!”', ['tell your people', 'add the ring to your insurance', 'set a rough budget', 'pick a season, not a date', 'decide who’s marrying you', 'book your officiant 3–6 months out', 'take one week off from planning'], 'write about a tuesday (later)'),
  'officiant': ('Officiant', 'Checklist', 'for the friend who said yes', ['get ordained (check your state’s rules)', 'ask the county clerk about the license', 'get a script written from their story', 'print it big, in a binder', 'practice out loud. twice.', 'learn how to say every name', 'step aside for the kiss'], 'sign + return the license on time'),
@@ -26,5 +26,5 @@ for k, (t1, t2, sub, items, last) in LISTS.items():
     S.append(f'<section class="s" id="{k}1"><div class="n">1/2</div>{GRAIN}<p class="title">{t1}<br>{t2}</p><p class="tsub">{sub}</p><div class="mark">I Do by Marisa</div></section>')
     rows = ''.join(f'<div class="row"><span class="bx">✓</span>{x}</div>' for x in items) + f'<div class="row"><span class="bx"></span>{last}</div>'
     S.append(f'<section class="s b" id="{k}2"><div class="n">2/2</div>{GRAIN}<div class="card"><h2>CHECKLIST</h2>{rows}</div><p class="handle">@idobymarisa</p><div class="mark" style="left:auto;right:50px;bottom:50px;font-size:44px">I Do by Marisa</div></section>')
-fonts = '<link href="https://fonts.googleapis.com/css2?family=Courier+Prime&family=Cormorant+Garamond&family=Pinyon+Script&family=Raleway:wght@600;700&display=swap" rel="stylesheet">'
+fonts = '<link href="https://fonts.googleapis.com/css2?family=Cormorant+Garamond:ital@0;1&family=Pinyon+Script&family=Raleway:wght@600;700&display=swap" rel="stylesheet">'
 open(os.path.join(D, 'cl.html'), 'w').write('<!doctype html><html><head><meta charset="utf-8">' + fonts + '<style>' + CSS + '</style></head><body>' + ''.join(S) + '</body></html>')
